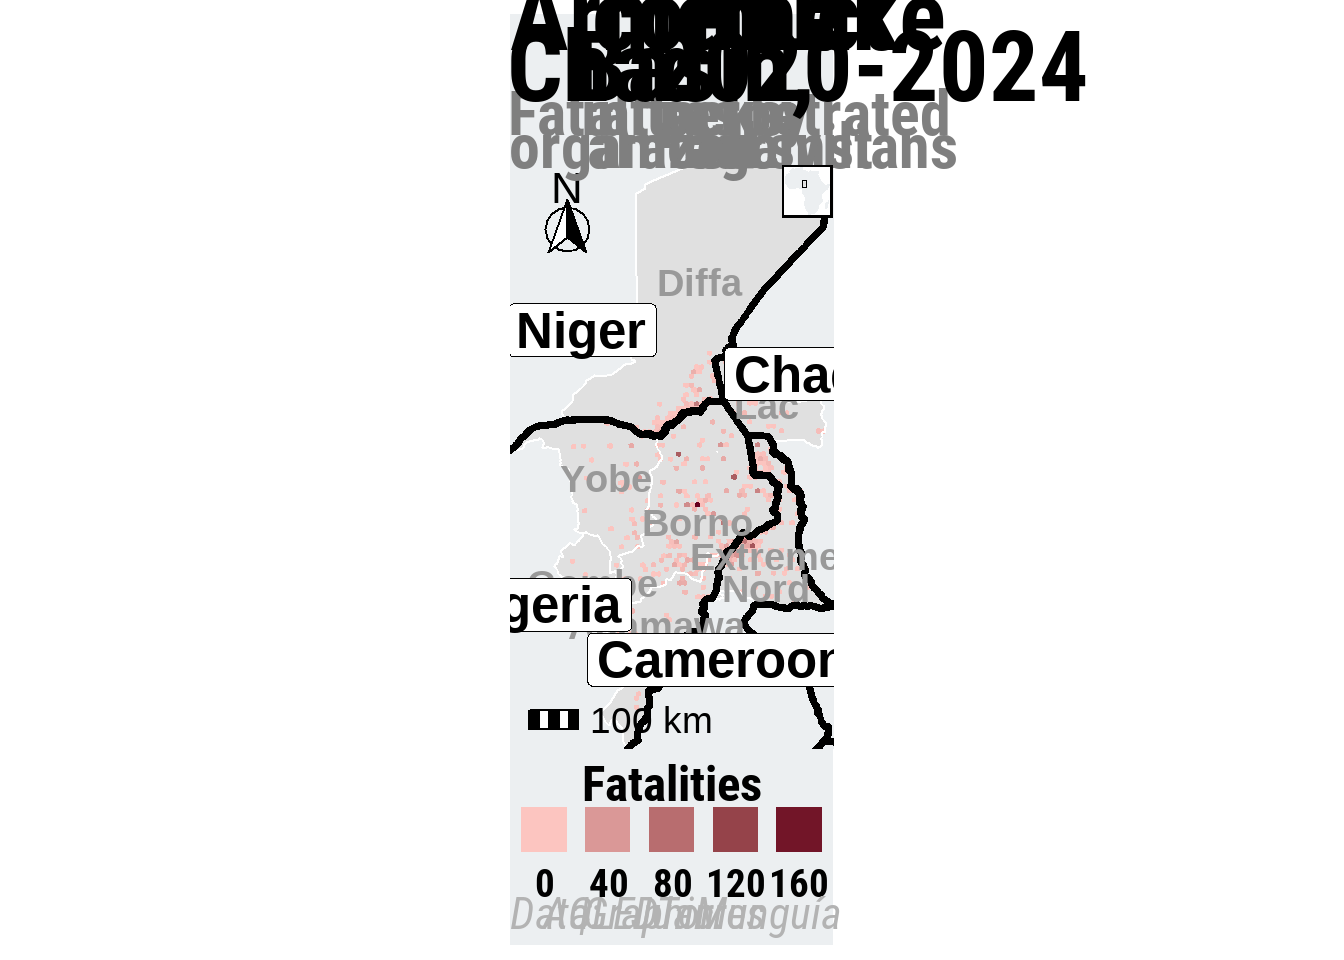
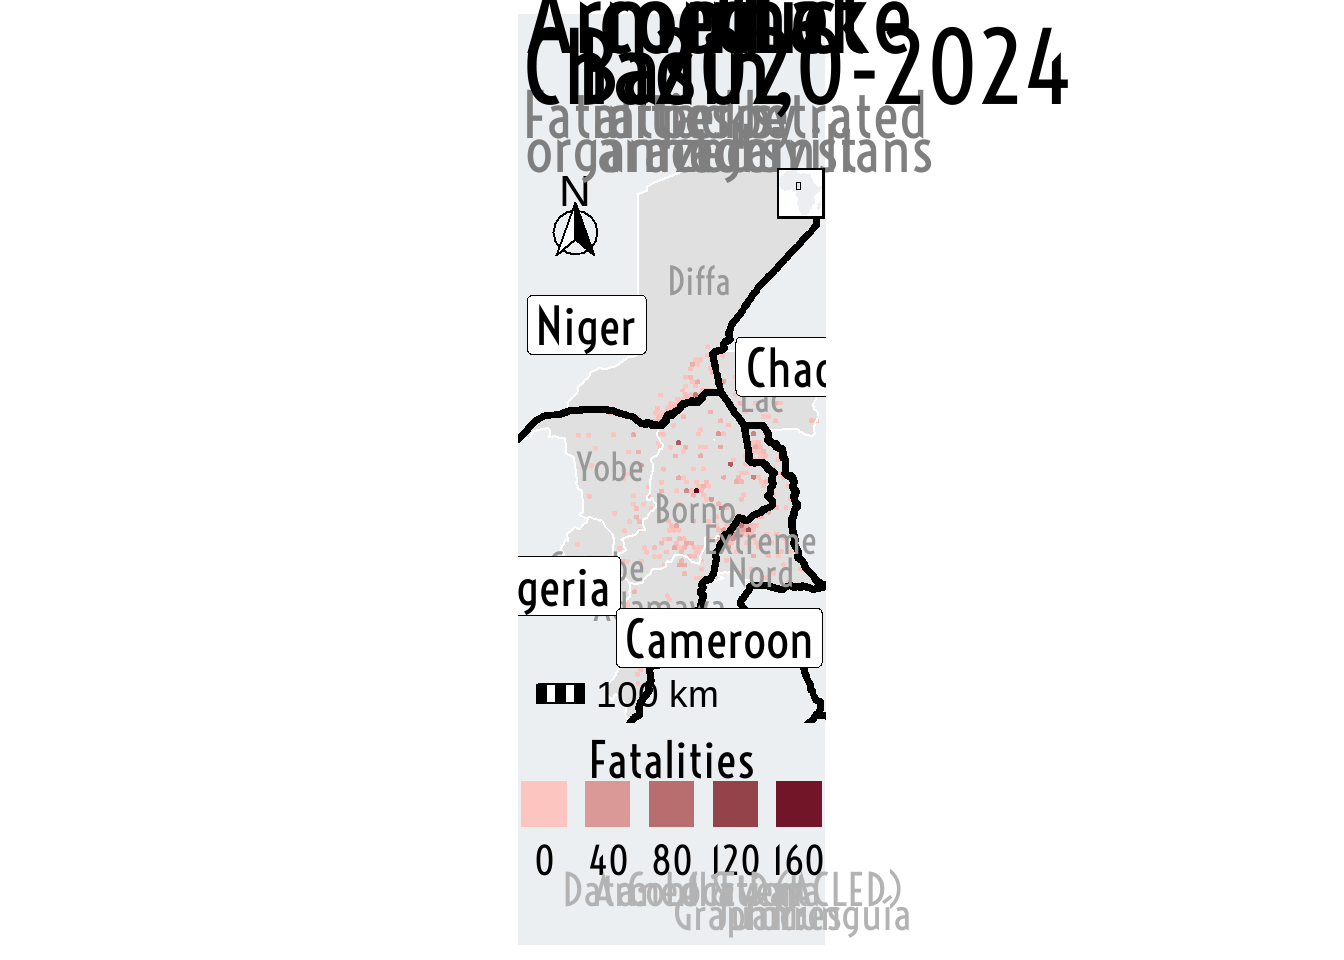
lake chad plot resized

Changed region(s): [[0.375, 0.0, 0.8125, 0.9688]]

diff --git a/docs/blog/posts/visualizing_conflict_lake_chad_basin/index.html b/docs/blog/posts/visualizing_conflict_lake_chad_basin/index.html
@@ -409,7 +409,13 @@ pre > code.sourceCode > span > a:first-child::before { text-decoration: underlin
 </div>
 <p>We first create an empty map of the countries and highlight the Lake Chad Basin area using {ggplot2}.</p>
 <div class="cell">
-<div class="sourceCode" id="cb9"><pre class="downlit sourceCode r code-with-copy"><code class="sourceCode R"><span><span class="va">lake_chad_map</span> <span class="op">&lt;-</span> <span class="fu"><a href="https://ggplot2.tidyverse.org/reference/ggplot.html">ggplot</a></span><span class="op">(</span><span class="op">)</span> <span class="op">+</span></span>
+<div class="sourceCode" id="cb9"><pre class="downlit sourceCode r code-with-copy"><code class="sourceCode R"><span><span class="co"># Automatically use showtext for handling fonts</span></span>
+<span><span class="fu"><a href="https://rdrr.io/pkg/showtext/man/showtext_auto.html">showtext_auto</a></span><span class="op">(</span><span class="op">)</span></span>
+<span></span>
+<span><span class="co"># Add Google font "Voltaire"</span></span>
+<span><span class="fu"><a href="https://rdrr.io/pkg/sysfonts/man/font_add_google.html">font_add_google</a></span><span class="op">(</span><span class="st">"Voltaire"</span>, <span class="st">"Voltaire"</span><span class="op">)</span></span>
+<span></span>
+<span><span class="va">lake_chad_map</span> <span class="op">&lt;-</span> <span class="fu"><a href="https://ggplot2.tidyverse.org/reference/ggplot.html">ggplot</a></span><span class="op">(</span><span class="op">)</span> <span class="op">+</span></span>
 <span></span>
 <span>  <span class="co"># Plot country borders with a light fill color</span></span>
 <span>  <span class="fu"><a href="https://ggplot2.tidyverse.org/reference/ggsf.html">geom_sf</a></span><span class="op">(</span></span>
@@ -427,7 +433,7 @@ pre > code.sourceCode > span > a:first-child::before { text-decoration: underlin
 <span>    color <span class="op">=</span> <span class="cn">NA</span>,</span>
 <span>    linewidth <span class="op">=</span> <span class="fl">0</span>,</span>
 <span>    inherit.aes <span class="op">=</span> <span class="cn">FALSE</span></span>
-<span>  <span class="op">)</span></span></code><button title="Copy to Clipboard" class="code-copy-button"><i class="bi"></i></button></pre></div>
+<span>    <span class="op">)</span></span></code><button title="Copy to Clipboard" class="code-copy-button"><i class="bi"></i></button></pre></div>
 </div>
 <p>Now, we add the fatalities information.</p>
 <div class="cell">
@@ -470,37 +476,32 @@ pre > code.sourceCode > span > a:first-child::before { text-decoration: underlin
 <span>    <span class="op">)</span>,</span>
 <span>    colour <span class="op">=</span> <span class="st">"#999"</span>,</span>
 <span>    fontface <span class="op">=</span> <span class="st">"bold"</span>,</span>
-<span>    size <span class="op">=</span> <span class="fl">3</span></span>
+<span>    size <span class="op">=</span> <span class="fl">3</span>,</span>
+<span>    family <span class="op">=</span> <span class="st">"Voltaire"</span></span>
 <span>  <span class="op">)</span> <span class="op">+</span></span>
-<span></span>
+<span>  </span>
 <span>  <span class="co"># Add labels for countries with a larger font</span></span>
 <span>  <span class="fu"><a href="https://ggplot2.tidyverse.org/reference/geom_text.html">geom_label</a></span><span class="op">(</span></span>
 <span>    data <span class="op">=</span> <span class="va">country_labels</span>,</span>
 <span>    <span class="fu"><a href="https://ggplot2.tidyverse.org/reference/aes.html">aes</a></span><span class="op">(</span>x <span class="op">=</span> <span class="va">x</span>, y <span class="op">=</span> <span class="va">y</span>, label <span class="op">=</span> <span class="va">country</span><span class="op">)</span>,</span>
 <span>    colour <span class="op">=</span> <span class="st">"black"</span>,</span>
 <span>    fontface <span class="op">=</span> <span class="st">"bold"</span>,</span>
-<span>    size <span class="op">=</span> <span class="fl">4</span></span>
+<span>    size <span class="op">=</span> <span class="fl">4</span>,</span>
+<span>    family <span class="op">=</span> <span class="st">"Voltaire"</span></span>
 <span>  <span class="op">)</span></span></code><button title="Copy to Clipboard" class="code-copy-button"><i class="bi"></i></button></pre></div>
 </div>
 <p>Finally, we center the map at the Lake Chad Basin area and add format for a better visualization.</p>
 <div class="cell">
-<div class="sourceCode" id="cb12"><pre class="downlit sourceCode r code-with-copy"><code class="sourceCode R"><span><span class="co"># Automatically use showtext for handling fonts</span></span>
-<span><span class="fu"><a href="https://rdrr.io/pkg/showtext/man/showtext_auto.html">showtext_auto</a></span><span class="op">(</span><span class="op">)</span></span>
-<span></span>
-<span><span class="co"># Add Google font "Roboto Condensed"</span></span>
-<span><span class="fu"><a href="https://rdrr.io/pkg/sysfonts/man/font_add_google.html">font_add_google</a></span><span class="op">(</span><span class="st">"Roboto Condensed"</span>, <span class="st">"roboto"</span><span class="op">)</span></span>
-<span></span>
-<span><span class="co"># Title, subtitle, and caption for the waffle chart</span></span>
+<div class="sourceCode" id="cb12"><pre class="downlit sourceCode r code-with-copy"><code class="sourceCode R"><span><span class="co"># Title, subtitle, and caption for the waffle chart</span></span>
 <span><span class="va">title_chart</span> <span class="op">&lt;-</span> <span class="st">"Armed conflict in the Lake Chad Basin, 2020-2024"</span></span>
 <span><span class="va">subtitle_chart</span> <span class="op">&lt;-</span> <span class="st">"Fatalities in attacks perpetrated by organized armed actors against civilians"</span></span>
-<span><span class="va">caption_chart</span> <span class="op">&lt;-</span> <span class="st">"Data: ACLED | Graphic: Juan Torres Munguía"</span></span>
 <span></span>
 <span><span class="va">lake_chad_map</span> <span class="op">&lt;-</span> <span class="va">lake_chad_map</span> <span class="op">+</span></span>
 <span></span>
 <span>  <span class="fu"><a href="https://ggplot2.tidyverse.org/reference/labs.html">labs</a></span><span class="op">(</span></span>
 <span>    title <span class="op">=</span> <span class="va">title_chart</span>,</span>
 <span>    subtitle <span class="op">=</span> <span class="va">subtitle_chart</span>,</span>
-<span>    caption <span class="op">=</span> <span class="va">caption_chart</span>,</span>
+<span>    caption <span class="op">=</span> <span class="st">"**Data:** Armed Conflict Location &amp; Event Data (ACLED) &lt;br&gt; **Graphic:** Juan Torres Munguía"</span>,</span>
 <span>    x <span class="op">=</span> <span class="st">""</span>,</span>
 <span>    y <span class="op">=</span> <span class="st">""</span>,</span>
 <span>    fill <span class="op">=</span> <span class="st">""</span></span>
@@ -531,7 +532,7 @@ pre > code.sourceCode > span > a:first-child::before { text-decoration: underlin
 <span>  <span class="op">)</span> <span class="op">+</span></span>
 <span></span>
 <span>  <span class="co"># Set the base theme without any background elements</span></span>
-<span>  <span class="fu"><a href="https://ggplot2.tidyverse.org/reference/ggtheme.html">theme_void</a></span><span class="op">(</span>base_family <span class="op">=</span> <span class="st">"roboto"</span><span class="op">)</span> <span class="op">+</span></span>
+<span>  <span class="fu"><a href="https://ggplot2.tidyverse.org/reference/ggtheme.html">theme_void</a></span><span class="op">(</span>base_family <span class="op">=</span> <span class="st">"Voltaire"</span><span class="op">)</span> <span class="op">+</span></span>
 <span></span>
 <span>  <span class="co"># Customize the map's text and legend styling</span></span>
 <span>  <span class="fu"><a href="https://ggplot2.tidyverse.org/reference/theme.html">theme</a></span><span class="op">(</span></span>
@@ -541,7 +542,7 @@ pre > code.sourceCode > span > a:first-child::before { text-decoration: underlin
 <span>      color <span class="op">=</span> <span class="st">"black"</span>,</span>
 <span>      face <span class="op">=</span> <span class="st">"bold"</span>,</span>
 <span>      size <span class="op">=</span> <span class="fl">22</span>,</span>
-<span>      margin <span class="op">=</span> <span class="fu"><a href="https://ggplot2.tidyverse.org/reference/element.html">margin</a></span><span class="op">(</span><span class="fl">5</span>, <span class="fl">0</span>, <span class="fl">5</span>, <span class="fl">0</span><span class="op">)</span>, <span class="co"># Top, right, bottom, left</span></span>
+<span>      margin <span class="op">=</span> <span class="fu"><a href="https://ggplot2.tidyverse.org/reference/element.html">margin</a></span><span class="op">(</span><span class="fl">5</span>, <span class="fl">3</span>, <span class="fl">5</span>, <span class="fl">3</span><span class="op">)</span>, <span class="co"># Top, right, bottom, left</span></span>
 <span>      <span class="co"># Width of the title, npc == 1 corresponds to the full width of the plot</span></span>
 <span>      width <span class="op">=</span> <span class="fu"><a href="https://rdrr.io/r/grid/unit.html">unit</a></span><span class="op">(</span><span class="fl">1</span>, <span class="st">"npc"</span><span class="op">)</span> </span>
 <span>    <span class="op">)</span>,</span>
@@ -549,18 +550,16 @@ pre > code.sourceCode > span > a:first-child::before { text-decoration: underlin
 <span>      color <span class="op">=</span> <span class="st">"grey50"</span>,</span>
 <span>      face <span class="op">=</span> <span class="st">"bold"</span>,</span>
 <span>      size <span class="op">=</span> <span class="fl">14</span>,</span>
-<span>      margin <span class="op">=</span> <span class="fu"><a href="https://ggplot2.tidyverse.org/reference/element.html">margin</a></span><span class="op">(</span><span class="fl">20</span>, <span class="fl">0</span>, <span class="fl">10</span>, <span class="fl">0</span><span class="op">)</span>,</span>
+<span>      margin <span class="op">=</span> <span class="fu"><a href="https://ggplot2.tidyverse.org/reference/element.html">margin</a></span><span class="op">(</span><span class="fl">20</span>, <span class="fl">3</span>, <span class="fl">10</span>, <span class="fl">3</span><span class="op">)</span>,</span>
 <span>      width <span class="op">=</span> <span class="fu"><a href="https://rdrr.io/r/grid/unit.html">unit</a></span><span class="op">(</span><span class="fl">1</span>, <span class="st">"npc"</span><span class="op">)</span></span>
 <span>    <span class="op">)</span>,</span>
 <span></span>
 <span>    <span class="co"># Caption settings</span></span>
-<span>    plot.caption <span class="op">=</span> <span class="fu"><a href="https://wilkelab.org/ggtext/reference/element_textbox.html">element_textbox</a></span><span class="op">(</span></span>
+<span>    plot.caption <span class="op">=</span> <span class="fu"><a href="https://wilkelab.org/ggtext/reference/element_markdown.html">element_markdown</a></span><span class="op">(</span></span>
 <span>      color <span class="op">=</span> <span class="st">"grey70"</span>,</span>
-<span>      face <span class="op">=</span> <span class="st">"italic"</span>,</span>
 <span>      size <span class="op">=</span> <span class="fl">10</span>,</span>
-<span>      margin <span class="op">=</span> <span class="fu"><a href="https://ggplot2.tidyverse.org/reference/element.html">margin</a></span><span class="op">(</span><span class="fl">10</span>, <span class="fl">0</span>, <span class="fl">5</span>, <span class="fl">0</span><span class="op">)</span>,</span>
-<span>      width <span class="op">=</span> <span class="fu"><a href="https://rdrr.io/r/grid/unit.html">unit</a></span><span class="op">(</span><span class="fl">1</span>, <span class="st">"npc"</span><span class="op">)</span></span>
-<span>    <span class="op">)</span>,</span>
+<span>      margin <span class="op">=</span> <span class="fu"><a href="https://ggplot2.tidyverse.org/reference/element.html">margin</a></span><span class="op">(</span><span class="fl">10</span>, <span class="fl">3</span>, <span class="fl">5</span>, <span class="fl">3</span><span class="op">)</span></span>
+<span>      <span class="op">)</span>,</span>
 <span>    legend.title <span class="op">=</span> <span class="fu"><a href="https://ggplot2.tidyverse.org/reference/element.html">element_text</a></span><span class="op">(</span>hjust <span class="op">=</span> <span class="fl">0.5</span>, color <span class="op">=</span> <span class="st">"black"</span>, face <span class="op">=</span> <span class="st">"bold"</span><span class="op">)</span>,</span>
 <span>    legend.text <span class="op">=</span> <span class="fu"><a href="https://ggplot2.tidyverse.org/reference/element.html">element_text</a></span><span class="op">(</span>color <span class="op">=</span> <span class="st">"black"</span>, face <span class="op">=</span> <span class="st">"bold"</span><span class="op">)</span>,</span>
 <span>    legend.direction <span class="op">=</span> <span class="st">"horizontal"</span>,</span>
@@ -637,8 +636,8 @@ pre > code.sourceCode > span > a:first-child::before { text-decoration: underlin
 <span><span class="fu"><a href="https://ggplot2.tidyverse.org/reference/ggsave.html">ggsave</a></span><span class="op">(</span></span>
 <span>  <span class="st">"lake-chad-map.png"</span>,</span>
 <span>  dpi <span class="op">=</span> <span class="fl">320</span>,</span>
-<span>  width <span class="op">=</span> <span class="fl">12</span>,</span>
-<span>  height <span class="op">=</span> <span class="fl">9</span>,</span>
+<span>  width <span class="op">=</span> <span class="fl">5</span>,</span>
+<span>  height <span class="op">=</span> <span class="fl">12</span>,</span>
 <span>  units <span class="op">=</span> <span class="st">"in"</span></span>
 <span><span class="op">)</span></span>
 <span><span class="fu"><a href="https://rdrr.io/pkg/showtext/man/showtext_auto.html">showtext_auto</a></span><span class="op">(</span><span class="cn">FALSE</span><span class="op">)</span></span></code><button title="Copy to Clipboard" class="code-copy-button"><i class="bi"></i></button></pre></div>

diff --git a/docs/blog/index.html b/docs/blog/index.html
@@ -235,7 +235,7 @@ window.Quarto = {
     </div>
 </div>
 <div class="list grid quarto-listing-cols-3">
-<div class="g-col-1" data-index="0" data-categories="data visualization,armed conflict,ACLED,Lake Chad basin,Nigeria,Niger,Chad,Cameroon,ggplot2" data-listing-date-sort="1741500000000" data-listing-file-modified-sort="1741816460467" data-listing-date-modified-sort="NaN" data-listing-reading-time-sort="15" data-listing-word-count-sort="2860">
+<div class="g-col-1" data-index="0" data-categories="data visualization,armed conflict,ACLED,Lake Chad basin,Nigeria,Niger,Chad,Cameroon,ggplot2" data-listing-date-sort="1741500000000" data-listing-file-modified-sort="1742334283353" data-listing-date-modified-sort="NaN" data-listing-reading-time-sort="15" data-listing-word-count-sort="2863">
 <a href="../blog/posts/visualizing_conflict_lake_chad_basin/index.html" class="quarto-grid-link">
 <div class="quarto-grid-item card h-100 card-left">
 <p class="card-img-top">
